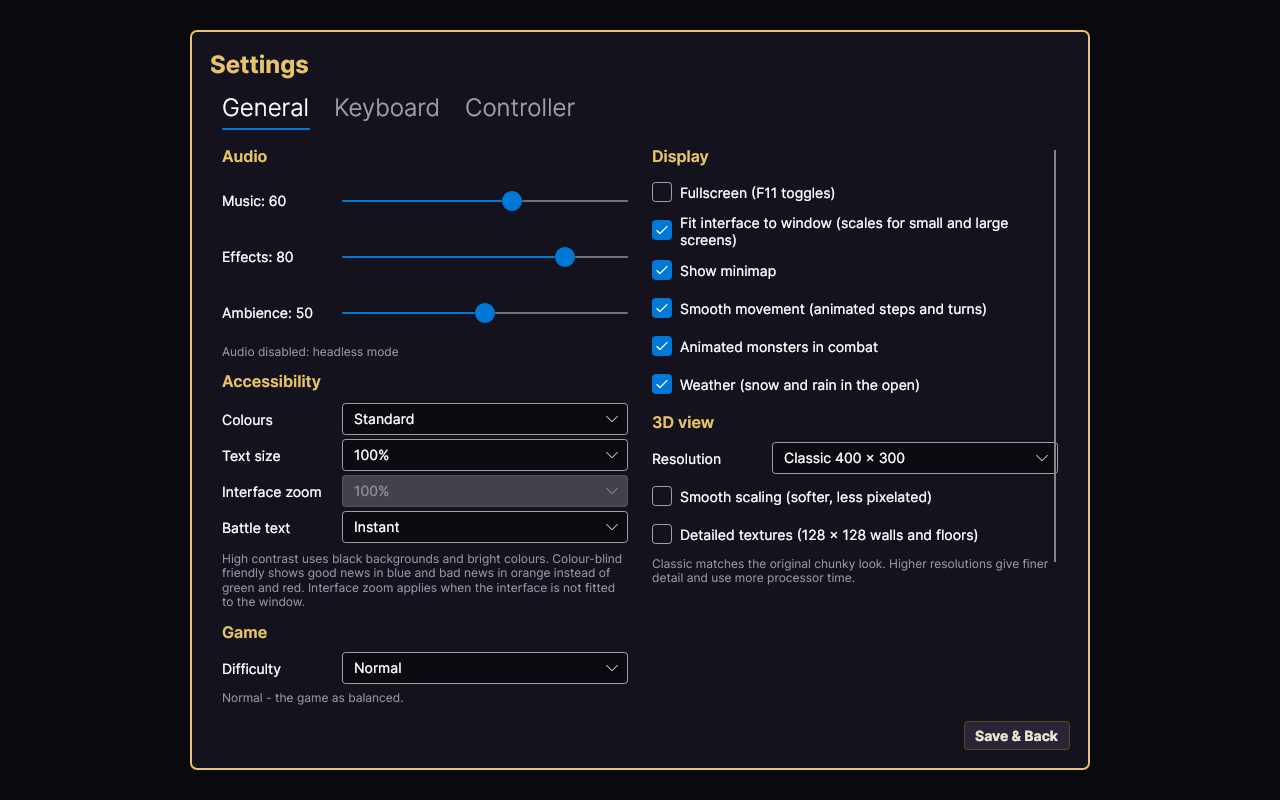
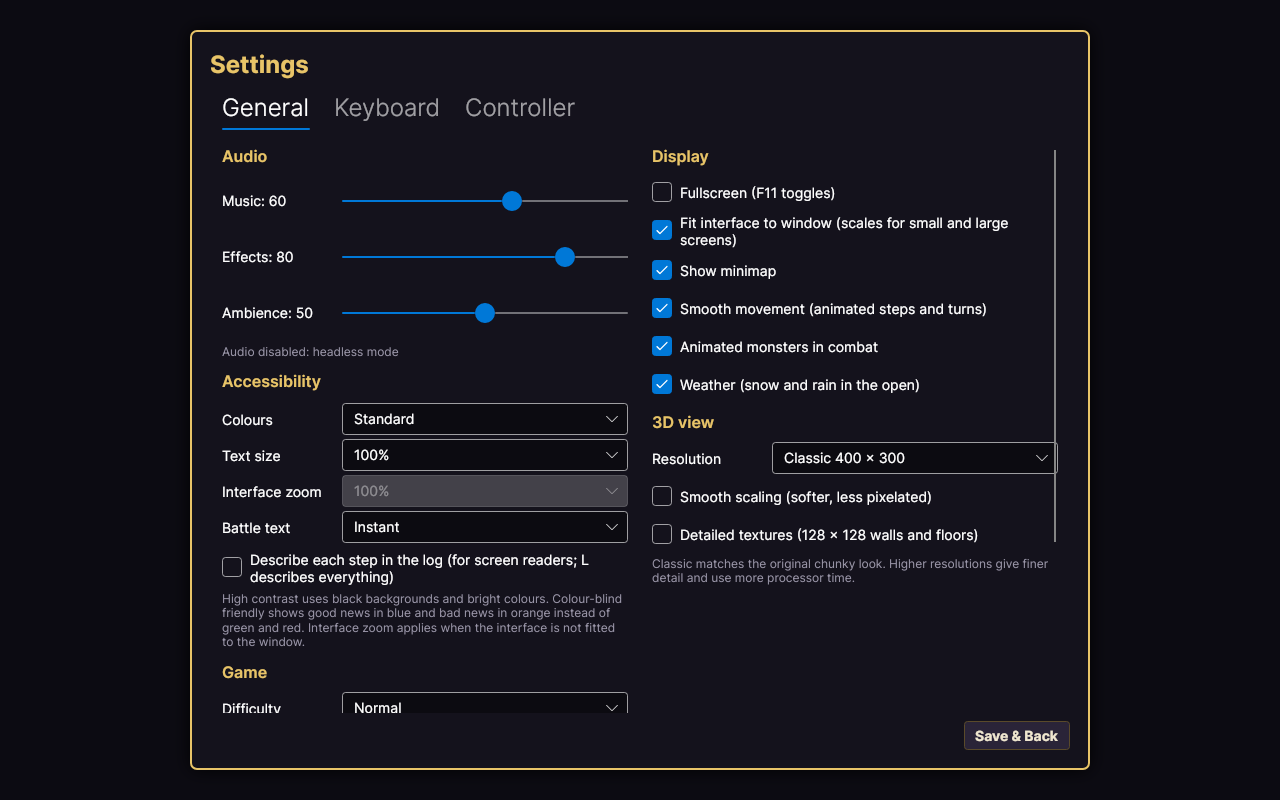
Describe surroundings (L) and optional step descriptions

Changed region(s): [[0.1562, 0.6875, 0.5, 0.9062]]

diff --git a/src/AVAMMB1.Core/World/ViewDescriber.cs b/src/AVAMMB1.Core/World/ViewDescriber.cs
@@ -1,0 +1,163 @@
+using AVAMMB1.Core.Content;
+using AVAMMB1.Core.Rules;
+using AVAMMB1.Core.Session;
+
+namespace AVAMMB1.Core.World;
+
+/// <summary>
+/// The party's surroundings in words - for players who cannot see the 3D view well (screen readers
+/// read the log), and for anyone groping through the dark.
+/// </summary>
+public static class ViewDescriber
+{
+    /// <summary>A full description: where, which way, what lies ahead and to the sides, what can be seen.</summary>
+    /// <param name="s">Session.</param>
+    public static List<string> Describe(GameSession s)
+    {
+        var state = s.State;
+        var map = s.CurrentMap;
+        var lines = new List<string>();
+        var when = map.Def.Kind is MapKind.Outdoor or MapKind.Town ? $" It is {state.PartOfDay}." : "";
+        lines.Add($"{map.Def.Name}, square {state.X},{state.Y}, facing {state.Facing}.{when}");
+        var sight = s.ViewDistance;
+        if (s.IsDarkHere)
+        {
+            lines.Add(map.IsDarkness(state.X, state.Y) ? "Magical darkness swallows every light: you can feel only the walls around you." : "It is pitch dark: you can make out only what is within reach.");
+        }
+        lines.Add("Ahead: " + Line(s, state.Facing, sight) + ".");
+        lines.Add($"Left: {Side(s, state.Facing.Left())}. Right: {Side(s, state.Facing.Right())}. Behind: {Side(s, state.Facing.Opposite())}.");
+
+        var here = map.EventsAt(state.X, state.Y).Where(e => Visible(s, map, e)).Select(Name).Distinct().ToList();
+        if (here.Count > 0)
+        {
+            lines.Add("Here: " + string.Join(", ", here) + ".");
+        }
+        var seen = new List<string>();
+        var clear = OpenAhead(s, state.Facing, sight);
+        foreach (var e in map.AllEvents.Where(e => (e.X, e.Y) != (state.X, state.Y) && Visible(s, map, e)))
+        {
+            var (ahead, lateral) = Relative(state.Facing, e.X - state.X, e.Y - state.Y);
+            var inLine = lateral == 0 && ahead <= clear + 1; // straight down the open way (or the square just past it)
+            if (ahead < 1 || ahead > sight || Math.Abs(lateral) > ahead || !(inLine || state.IsExplored(map.Id, map.Width, e.X, e.Y)))
+            {
+                continue;
+            }
+            var where = ahead == 1 && lateral == 0 ? "right in front of you"
+                : $"{ahead} square{(ahead == 1 ? "" : "s")} ahead" + (lateral == 0 ? "" : $", {Math.Abs(lateral)} to the {(lateral < 0 ? "left" : "right")}");
+            seen.Add($"{Name(e)} ({where})");
+        }
+        if (seen.Count > 0)
+        {
+            lines.Add("You can see: " + string.Join("; ", seen.Take(6)) + ".");
+        }
+        return lines;
+    }
+
+    /// <summary>A short line for describing each step: what is ahead, and which ways are open.</summary>
+    /// <param name="s">Session.</param>
+    public static string Brief(GameSession s)
+    {
+        var f = s.State.Facing;
+        var open = new[] { (f.Left(), "left"), (f.Right(), "right") }.Where(x => s.CanPass(s.State.X, s.State.Y, x.Item1)).Select(x => x.Item2).ToList();
+        return $"{f}: {Line(s, f, s.ViewDistance)}" + (open.Count > 0 ? $"; open to the {string.Join(" and ", open)}" : "") + ".";
+    }
+
+    /// <summary>How many squares are open straight ahead (within sight).</summary>
+    private static int OpenAhead(GameSession s, Direction d, int sight)
+    {
+        var (x, y) = (s.State.X, s.State.Y);
+        var steps = 0;
+        while (steps < Math.Max(1, sight) && s.CanPass(x, y, d) && !s.CurrentMap.Probe(x, y, d).DestinationSolid)
+        {
+            (x, y) = (x + d.Dx(), y + d.Dy());
+            steps++;
+        }
+        return steps;
+    }
+
+    /// <summary>"open for 3 squares, then a door" / "a wall".</summary>
+    private static string Line(GameSession s, Direction d, int sight)
+    {
+        var map = s.CurrentMap;
+        var (x, y) = (s.State.X, s.State.Y);
+        var steps = 0;
+        while (steps < Math.Max(1, sight))
+        {
+            var (wall, solid) = map.Probe(x, y, d);
+            if (solid || wall != WallKind.None || !s.CanPass(x, y, d))
+            {
+                var what = solid ? Solid(map, x + d.Dx(), y + d.Dy()) : Wall(s, x, y, d, wall);
+                return steps == 0 ? what : $"open for {steps} square{(steps == 1 ? "" : "s")}, then {what}";
+            }
+            (x, y) = (x + d.Dx(), y + d.Dy());
+            steps++;
+        }
+        return $"open for at least {steps} square{(steps == 1 ? "" : "s")}";
+    }
+
+    private static string Side(GameSession s, Direction d)
+    {
+        var (wall, solid) = s.CurrentMap.Probe(s.State.X, s.State.Y, d);
+        return solid ? Solid(s.CurrentMap, s.State.X + d.Dx(), s.State.Y + d.Dy()) : wall == WallKind.None ? "open" : Wall(s, s.State.X, s.State.Y, d, wall);
+    }
+
+    /// <summary>"water", "a building", "the map's edge".</summary>
+    private static string Solid(GameMap map, int x, int y)
+    {
+        if (!map.InBounds(x, y))
+        {
+            return "the edge of the map";
+        }
+        var name = map.Terrain(x, y)?.Name;
+        if (string.IsNullOrEmpty(name))
+        {
+            return map.Def.Kind == MapKind.Dungeon ? "solid rock" : "something in the way";
+        }
+        var n = name.ToLowerInvariant();
+        return n.EndsWith('s') || n.Contains("water", StringComparison.Ordinal) ? n : "a " + n; // "mountains", "water", "a building"
+    }
+
+    private static string Wall(GameSession s, int x, int y, Direction d, WallKind wall) => wall switch
+    {
+        WallKind.Door => "a door",
+        WallKind.LockedDoor => s.CanPass(x, y, d) ? "a door (unlocked)" : "a locked door",
+        WallKind.SecretDoor => s.State.IsSecretFound(s.CurrentMap.Id, x, y, d) ? "a secret door" : "a wall",
+        _ => "a wall",
+    };
+
+    /// <summary>Events worth naming: places, stairs, chests, features and guardians - not hidden traps or spinners.</summary>
+    private static bool Visible(GameSession s, GameMap map, MapEventDef e)
+    {
+        if (e.Type is MapEventKind.Trap or MapEventKind.Spinner || (e.Type == MapEventKind.Message && e.Feature is null) || e.Name is null && e.Feature is null)
+        {
+            return false;
+        }
+        var key = e.Id ?? $"{map.Id}:{e.X}:{e.Y}:{map.Def.Events.IndexOf(e)}";
+        return !(e.Once && s.State.CompletedEvents.Contains(key)) && !(e.OpenWhenMet && s.RequirementsMet(e));
+    }
+
+    private static string Name(MapEventDef e)
+    {
+        if (e.Type == MapEventKind.Encounter && e.Monsters.Count > 0)
+        {
+            return (e.Name ?? "a guardian") + " - something stands guard";
+        }
+        var name = e.Name ?? e.Feature!.Replace('_', ' ');
+        return e.Type switch
+        {
+            MapEventKind.Treasure => $"{name} (treasure)",
+            MapEventKind.Teleport => $"{name} (a way out)",
+            MapEventKind.Riddle => $"{name} (a riddle)",
+            _ => name,
+        };
+    }
+
+    /// <summary>Offsets relative to the facing: squares ahead, and squares to the right (negative: left).</summary>
+    private static (int Ahead, int Right) Relative(Direction f, int dx, int dy) => f switch
+    {
+        Direction.North => (-dy, dx),
+        Direction.South => (dy, -dx),
+        Direction.East => (dx, dy),
+        _ => (-dx, -dy),
+    };
+}

diff --git a/src/AVAMMB1.App/ViewModels/InfoViewModels.cs b/src/AVAMMB1.App/ViewModels/InfoViewModels.cs
@@ -131,6 +131,7 @@ public sealed partial class HelpViewModel : ViewModelBase
         new("Smithing", "The smithies (in Brindlemoor, Saltreach, Thornwick, Port Ashkar and Wintermere) can improve weapons and armor, up to +5 - press Smithing in the shop. Each step costs more gold and one more gem than the last; a +1 weapon hits and wounds for +1, +1 armor adds 1 AC."),
         new("Ironman and the Hall of Fame", "Tick Ironman when creating the party for a run with one save the game keeps itself - no reloading, and if the whole party falls the run is over. Every victory and every fallen ironman party is remembered in the Hall of Fame on the title screen, with the achievements earned in all your games."),
         new("The Depths Below", "After the Umbral Wyrm falls, a stair beneath its lair in the Sunless Deep leads into the Depths Below - a new maze every level, each deeper one harder and richer than the last. The stair up always leads back to the Deep. How deep can you go?"),
+        new("Describe surroundings", "Press L (or choose Describe surroundings in the menu) for a description in the log of where you are, what lies ahead and to each side, and what you can see. Settings can also describe every step briefly - useful with a screen reader, or in the dark."),
         new("Saving", "F5 quick-saves; the menu (Esc) saves to nine more slots. The game also autosaves into three rotating slots when you enter a new area and before a boss fight (Settings > Game). Continue on the title screen loads your newest save."),
         new("Shopping", "Each item for sale says how it compares with what the shopper wears - upgrades in green. Sell junk sells all backpack gear that nobody in the party could use as an upgrade; hover over it to see what it would sell."),
         new("Difficulty", "Easy, Normal or Hard - chosen when you create the party and changeable any time in Settings. Easy monsters have a quarter less health and hit a quarter softer, with more gold and fewer encounters; Hard monsters have 30% more health (bosses 40%) and hit 25% harder, elites are twice as common, battles give 10% less experience, and there is less gold and more encounters. Poison stops healing and disease halves it - cure them with spells, cure potions or at a temple, which also raises the dead."),

diff --git a/tests/AVAMMB1.Tests/ViewDescriberTests.cs b/tests/AVAMMB1.Tests/ViewDescriberTests.cs
@@ -1,0 +1,36 @@
+using AVAMMB1.Core.Rules;
+using AVAMMB1.Core.World;
+
+namespace AVAMMB1.Tests;
+
+/// <summary>The surroundings in words.</summary>
+public class ViewDescriberTests
+{
+    [Fact]
+    public void Town_DescribesWhereWhichWayAndWhatIsInSight()
+    {
+        var s = TestContent.StartedSession();
+        (s.State.MapId, s.State.X, s.State.Y, s.State.Facing) = ("brindlemoor", 7, 14, Direction.North);
+        s.Explore();
+        var text = string.Join("\n", ViewDescriber.Describe(s));
+        Assert.Contains("Brindlemoor, square 7,14, facing North", text, StringComparison.Ordinal);
+        Assert.Contains("Ahead: open for", text, StringComparison.Ordinal);
+        Assert.Contains("Town Fountain (4 squares ahead)", text, StringComparison.Ordinal);
+        Assert.Contains("Behind:", text, StringComparison.Ordinal);
+        Assert.Contains("open for", ViewDescriber.Brief(s), StringComparison.Ordinal);
+    }
+
+    [Fact]
+    public void Doors_AndDarkness_AreNamed()
+    {
+        var s = TestContent.StartedSession();
+        var map = s.Content.Map("cellars");
+        var (x, y) = Enumerable.Range(0, map.Height).SelectMany(yy => Enumerable.Range(0, map.Width).Select(xx => (xx, yy)))
+            .First(c => map.GetWall(c.xx, c.yy, Direction.North) == WallKind.Door);
+        (s.State.MapId, s.State.X, s.State.Y, s.State.Facing) = ("cellars", x, y, Direction.North);
+        s.State.LightSteps = 0;
+        var text = string.Join("\n", ViewDescriber.Describe(s));
+        Assert.Contains("Ahead: a door", text, StringComparison.Ordinal);
+        Assert.Contains("pitch dark", text, StringComparison.Ordinal);
+    }
+}

diff --git a/src/AVAMMB1.App/ViewModels/GameViewModel.cs b/src/AVAMMB1.App/ViewModels/GameViewModel.cs
@@ -343,6 +343,10 @@ public sealed partial class GameViewModel : ViewModelBase
     private void Apply(StepResult r)
     {
         AddMessages(r.Messages.Where(m => m.Kind != MessageKind.Story || r.StoryText is null));
+        if (r.Moved && !r.CombatStarted && Services.Settings.DescribeSteps)
+        {
+            AddMessage(AVAMMB1.Core.World.ViewDescriber.Brief(Session));
+        }
         Refresh();
         if (!r.CombatStarted && !Session.State.Party.Any(c => c.CanAct))
         {
@@ -467,6 +471,10 @@ public sealed partial class GameViewModel : ViewModelBase
 
     [RelayCommand] private void Cast() => Overlay = new SpellCastViewModel(this, null);
 
+    /// <summary>Describes the surroundings in the log.</summary>
+    [RelayCommand]
+    public void Look() => AddMessages(AVAMMB1.Core.World.ViewDescriber.Describe(Session).Select(t => new GameMessage(t, MessageKind.Story)));
+
     [RelayCommand] private void Characters() => Overlay = new CharacterSheetViewModel(this, 0);
 
     /// <summary>Opens the character sheet for one member.</summary>
@@ -582,6 +590,7 @@ public sealed partial class GameViewModel : ViewModelBase
             case InputAction.Journal: Journal(); return true;
             case InputAction.Note: Note(); return true;
             case InputAction.Help: Help(); return true;
+            case InputAction.Look: Look(); return true;
             default: return false;
         }
     }

diff --git a/src/AVAMMB1.Core/Persistence/GameSettings.cs b/src/AVAMMB1.Core/Persistence/GameSettings.cs
@@ -41,6 +41,8 @@ public enum InputAction
     Note,
     /// <summary>Open the help screen.</summary>
     Help,
+    /// <summary>Describe the surroundings in words.</summary>
+    Look,
 }
 
 /// <summary>User preferences persisted between sessions.</summary>
@@ -62,6 +64,8 @@ public sealed class GameSettings
     public int ViewResolution { get; set; } = 300;
     /// <summary>Save automatically on entering a new area and before boss fights (three rotating slots).</summary>
     public bool Autosave { get; set; } = true;
+    /// <summary>After every step, a short line in the log says what lies ahead (for screen readers).</summary>
+    public bool DescribeSteps { get; set; }
     /// <summary>Snow and rain in the open country.</summary>
     public bool Weather { get; set; } = true;
     /// <summary>Mark where open quests lead on the automap and minimap.</summary>
@@ -120,6 +124,7 @@ public sealed class GameSettings
         [InputAction.Journal] = ["J"],
         [InputAction.Note] = ["N"],
         [InputAction.Help] = ["F1", "H"],
+        [InputAction.Look] = ["L"],
     };
 
     /// <summary>Fills in any actions missing from <see cref="KeyBindings"/> with defaults.</summary>

diff --git a/src/AVAMMB1.App/ViewModels/MenuViewModels.cs b/src/AVAMMB1.App/ViewModels/MenuViewModels.cs
@@ -250,6 +250,7 @@ public sealed partial class SettingsViewModel : ViewModelBase
         _autosave = s.Autosave;
         _questMarkers = s.QuestMarkers;
         _weather = s.Weather;
+        _describeSteps = s.DescribeSteps;
         _pad = new Dictionary<InputAction, AVAMMB1.Core.Input.GamepadButton>(s.GamepadBindings);
         LoadPadRows();
         LoadBindings();
@@ -358,6 +359,10 @@ public sealed partial class SettingsViewModel : ViewModelBase
     /// <summary>Survival mode (daily rations).</summary>
     [ObservableProperty]
     private bool _survival;
+
+    /// <summary>Describe each step in the log.</summary>
+    [ObservableProperty]
+    private bool _describeSteps;
 
     /// <summary>Snow and rain outdoors.</summary>
     [ObservableProperty]
@@ -539,6 +544,7 @@ public sealed partial class SettingsViewModel : ViewModelBase
         s.Autosave = Autosave;
         s.QuestMarkers = QuestMarkers;
         s.Weather = Weather;
+        s.DescribeSteps = DescribeSteps;
         if (InGame)
         {
             var state = _main.Services.Session.State;

diff --git a/src/AVAMMB1.App/ViewModels/CharacterViewModels.cs b/src/AVAMMB1.App/ViewModels/CharacterViewModels.cs
@@ -713,6 +713,13 @@ public sealed partial class GameMenuViewModel(GameViewModel game) : ViewModelBas
     private void Resume() => game.CloseOverlay();
 
     [RelayCommand]
+    private void Describe()
+    {
+        game.CloseOverlay();
+        game.Look();
+    }
+
+    [RelayCommand]
     private void Journal() => game.Overlay = new JournalViewModel(game);
 
     [RelayCommand]

diff --git a/README.md b/README.md
@@ -143,7 +143,8 @@ Code identifiers, the solution and executables use the name **`AVAMMB1`** (`AVAM
 - **Accessibility**: three colour themes (Standard, High contrast, and Colour-blind friendly, which
   shows good news in blue and bad news in orange instead of green and red, using the Okabe-Ito
   palette), adjustable text size (90-130%), adjustable battle text speed (lines appear one at a time),
-  a LOW badge on badly hurt characters that does not rely on colour, and rebindable keys and
+  a LOW badge on badly hurt characters that does not rely on colour, "Describe surroundings" (L) and
+  optional step-by-step descriptions in the log for screen readers, and rebindable keys and
   controller buttons.
 - **3D view options**: classic 400 x 300, sharp 640 x 480 or high 800 x 600 internal resolution,
   optional smooth scaling, and optional **detailed textures** - 128 x 128 walls and floors (CC0,

diff --git a/CHANGELOG.md b/CHANGELOG.md
@@ -6,6 +6,10 @@ All notable changes to this project are documented here. The format follows
 ## [Unreleased]
 
 ### Added
+- Describe surroundings (L, or Describe surroundings in the menu for controllers): the log says where
+  the party is and which way it faces, what lies ahead ("open for 6 squares, then water"), to either
+  side and behind, and what can be seen - places, stairs, treasure, riddle doors, guardians - with
+  distances. Settings > Accessibility can also describe each step briefly; screen readers read the log.
 - New spells. Utility: Reveal Secrets (sorcerer, level 3 - secret doors within three squares),
   Levitate (sorcerer, level 4 - float over floor traps and pits for a while) and Sense Minds (cleric,
   level 3 - what guardians and lairs wait on this level, and which way). And a seventh circle, learned
